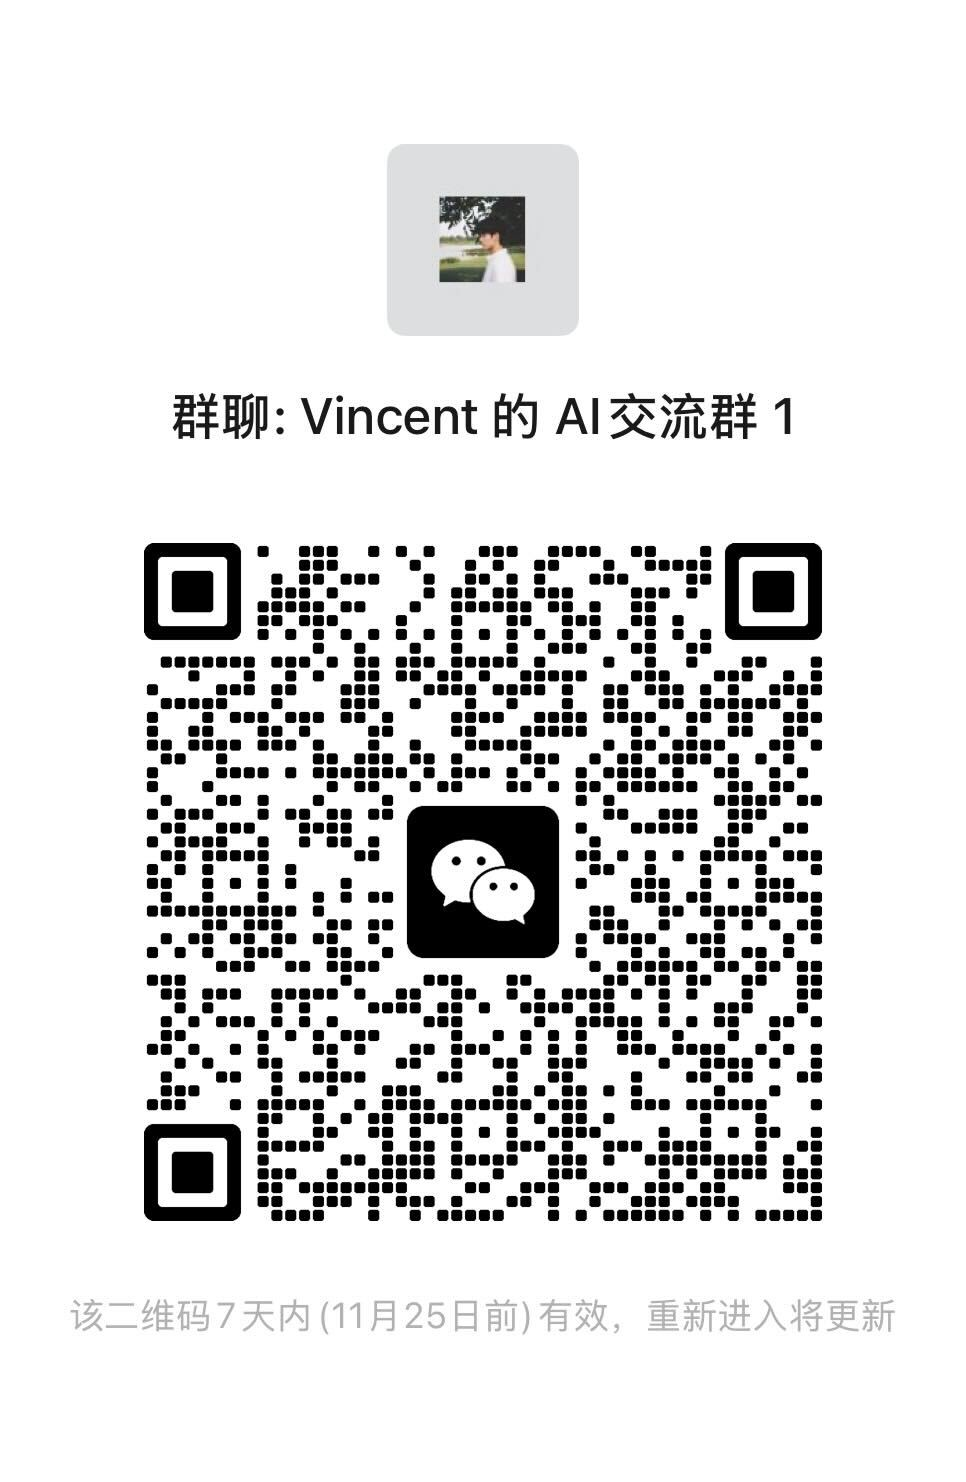
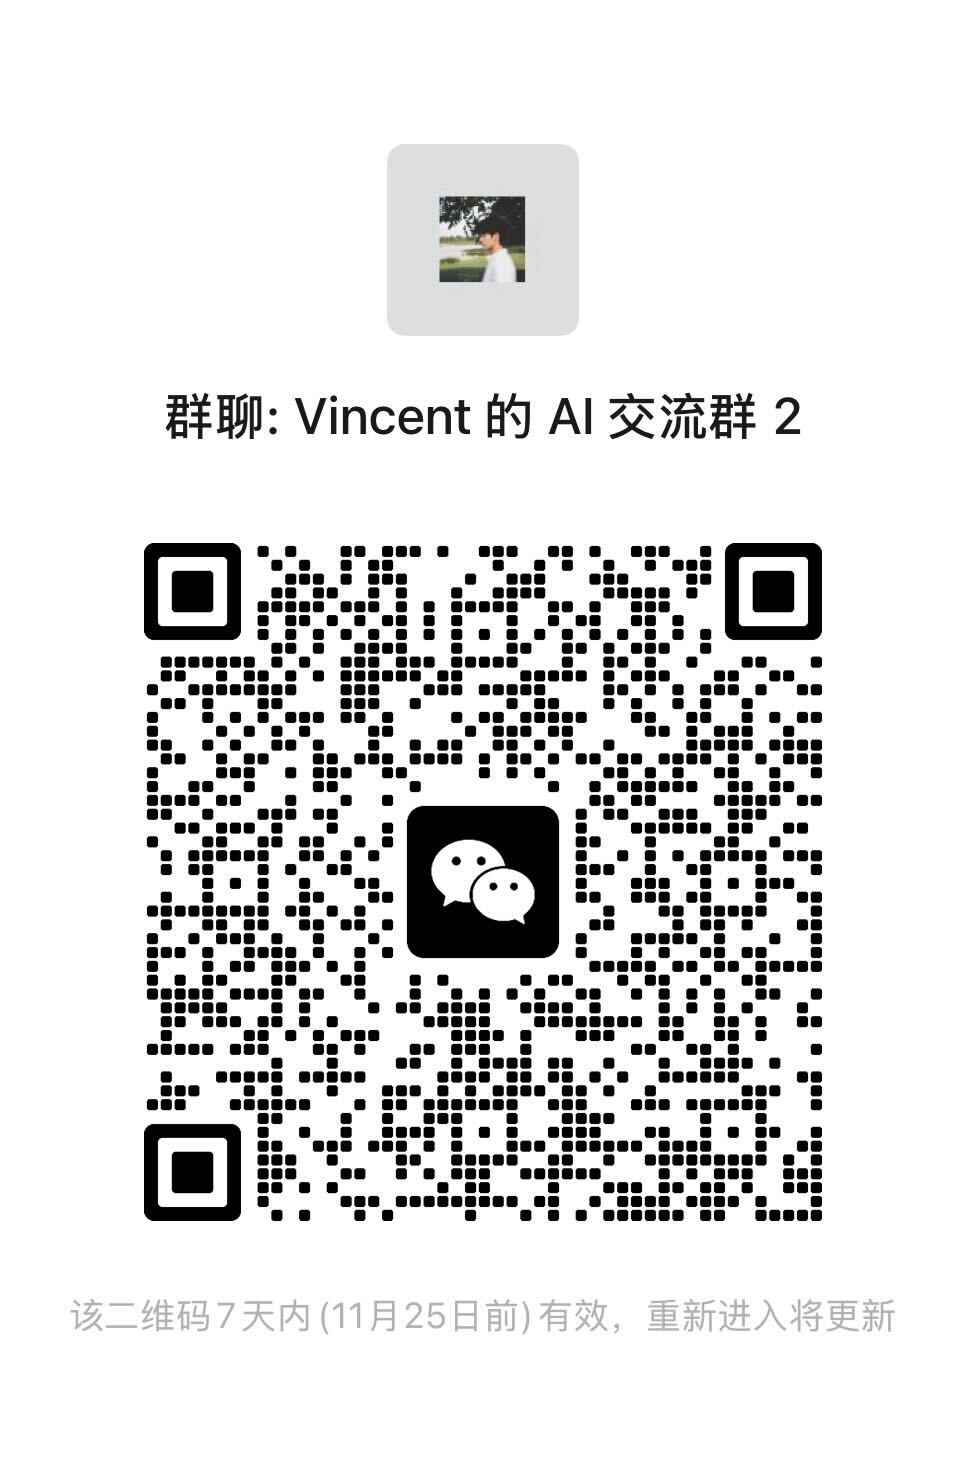
Update WeChat community to group 2

diff --git a/README_RU.md b/README_RU.md
@@ -305,9 +305,9 @@ CLI поиска и загрузки Video Shotcraft реализован нез
 
 ## 💬 Сообщество WeChat
 
-Присоединяйтесь к «Vincent 的 AI 交流群 1», чтобы обсуждать приложения ИИ, программирование и создание видео.
+Присоединяйтесь к «Vincent 的 AI 交流群 2», чтобы обсуждать приложения ИИ, программирование и создание видео.
 
-<a href="assets/wechat-group.jpg"><img src="assets/wechat-group.jpg" alt="QR-код AI-сообщества Vincent в WeChat" width="400"></a>
+<a href="assets/wechat-group.jpg?v=2"><img src="assets/wechat-group.jpg?v=2" alt="QR-код AI-сообщества Vincent в WeChat" width="400"></a>
 
 Отсканируйте QR-код в WeChat. На телефоне сохраните изображение и выберите его из альбома в функции сканирования WeChat.
 

diff --git a/README_JA.md b/README_JA.md
@@ -300,9 +300,9 @@ BGM と既存テンプレート音声の提供元
 
 ## 💬 WeChat グループ
 
-「Vincent 的 AI 交流群 1」で、AI アプリ、プログラミング、動画制作について交流しましょう。
+「Vincent 的 AI 交流群 2」で、AI アプリ、プログラミング、動画制作について交流しましょう。
 
-<a href="assets/wechat-group.jpg"><img src="assets/wechat-group.jpg" alt="Vincent の AI WeChat グループ参加用 QR コード" width="400"></a>
+<a href="assets/wechat-group.jpg?v=2"><img src="assets/wechat-group.jpg?v=2" alt="Vincent の AI WeChat グループ参加用 QR コード" width="400"></a>
 
 WeChat で QR コードを読み取って参加できます。スマートフォンでは画像を保存し、WeChat のスキャン機能でアルバムから選んでください。
 

diff --git a/README.md b/README.md
@@ -324,9 +324,9 @@ Sponsorship is entirely optional. Stars, feedback, and sharing are just as welco
 
 ## 💬 WeChat community
 
-Join “Vincent 的 AI 交流群 1” to chat about AI applications, coding, and video creation.
+Join “Vincent 的 AI 交流群 2” to chat about AI applications, coding, and video creation.
 
-<a href="assets/wechat-group.jpg"><img src="assets/wechat-group.jpg" alt="Vincent’s AI WeChat community QR code" width="400"></a>
+<a href="assets/wechat-group.jpg?v=2"><img src="assets/wechat-group.jpg?v=2" alt="Vincent’s AI WeChat community QR code" width="400"></a>
 
 Scan with WeChat to join. On a phone, save the image, then open WeChat’s Scan feature and select it from your album.
 

diff --git a/README_TW.md b/README_TW.md
@@ -293,9 +293,9 @@ Video Shotcraft 的搜尋與下載 CLI 為獨立實現。
 
 ## 💬 微信群
 
-歡迎加入「Vincent 的 AI 交流群 1」，一起交流 AI 應用、程式開發和影片創作。
+歡迎加入「Vincent 的 AI 交流群 2」，一起交流 AI 應用、程式開發和影片創作。
 
-<a href="assets/wechat-group.jpg"><img src="assets/wechat-group.jpg" alt="Vincent 的 AI 交流群 1 微信入群 QR code" width="400"></a>
+<a href="assets/wechat-group.jpg?v=2"><img src="assets/wechat-group.jpg?v=2" alt="Vincent 的 AI 交流群 2 微信入群 QR code" width="400"></a>
 
 用微信掃碼加入。使用手機瀏覽時，可先儲存圖片，再在微信「掃一掃」中從相簿選取。
 

diff --git a/README_CN.md b/README_CN.md
@@ -311,9 +311,9 @@ Video Shotcraft 的搜索与下载 CLI 为独立实现。
 
 ## 💬 微信群
 
-欢迎加入「Vincent 的 AI 交流群 1」，一起交流 AI 应用、编程和视频创作。
+欢迎加入「Vincent 的 AI 交流群 2」，一起交流 AI 应用、编程和视频创作。
 
-<a href="assets/wechat-group.jpg"><img src="assets/wechat-group.jpg" alt="Vincent 的 AI 交流群 1 微信入群二维码" width="400"></a>
+<a href="assets/wechat-group.jpg?v=2"><img src="assets/wechat-group.jpg?v=2" alt="Vincent 的 AI 交流群 2 微信入群二维码" width="400"></a>
 
 用微信扫一扫加入。手机查看时，可保存图片，再在微信「扫一扫」中从相册选择。
 
